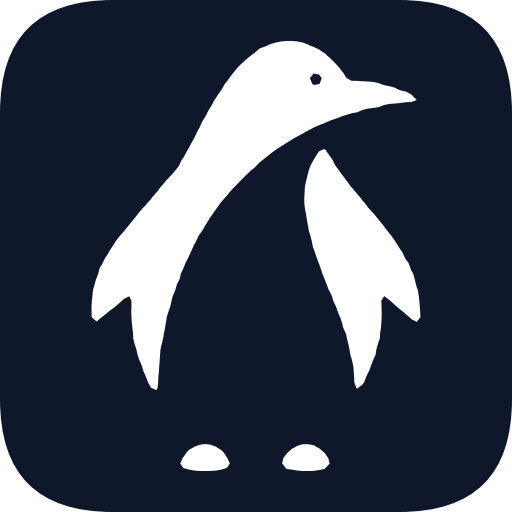
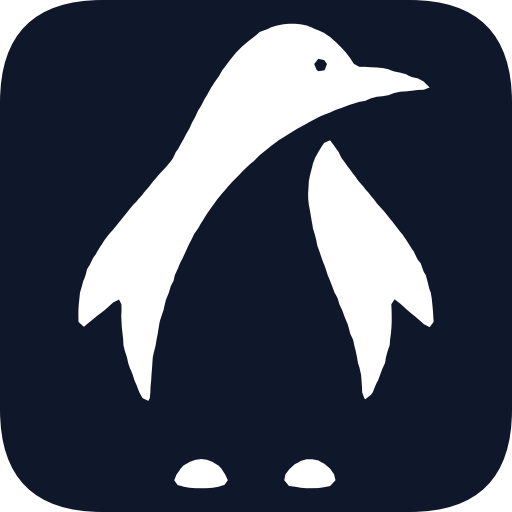
fix(video): 파비콘 캐시 무효화 및 펭귄 로고 패딩 축소로 시인성 개선

diff --git a/reportist-video/index.html b/reportist-video/index.html
@@ -10,12 +10,12 @@
     <link rel="canonical" href="https://penguincut.com/" />
 
     <!-- Favicon & Icons -->
-    <link rel="icon" type="image/svg+xml" href="/favicon.svg" />
-    <link rel="icon" type="image/x-icon" href="/favicon.ico" />
-    <link rel="icon" type="image/png" sizes="48x48" href="/icon-48x48.png" />
-    <link rel="icon" type="image/png" sizes="96x96" href="/icon-96x96.png" />
-    <link rel="icon" type="image/png" sizes="192x192" href="/icon-192x192.png" />
-    <link rel="apple-touch-icon" href="/icon-192x192.png" />
+    <link rel="icon" type="image/svg+xml" href="/favicon.svg?v=2" />
+    <link rel="icon" type="image/x-icon" href="/favicon.ico?v=2" />
+    <link rel="icon" type="image/png" sizes="48x48" href="/icon-48x48.png?v=2" />
+    <link rel="icon" type="image/png" sizes="96x96" href="/icon-96x96.png?v=2" />
+    <link rel="icon" type="image/png" sizes="192x192" href="/icon-192x192.png?v=2" />
+    <link rel="apple-touch-icon" href="/icon-192x192.png?v=2" />
 
     <!-- Open Graph / Facebook -->
     <meta property="og:type" content="website" />

diff --git a/reportist-video/src/components/common/PenguinLogo.tsx b/reportist-video/src/components/common/PenguinLogo.tsx
@@ -67,10 +67,10 @@ export function PenguinLogoBadge({
   className = "",
 }: PenguinLogoBadgeProps) {
   const sizeConfig = {
-    xs: { box: "w-5 h-5 rounded-[4px]", icon: 14 },
-    sm: { box: "w-6 h-6 rounded-md", icon: 16 },
-    md: { box: "w-8 h-8 rounded-lg", icon: 22 },
-    lg: { box: "w-9 h-9 rounded-lg", icon: 26 },
+    xs: { box: "w-5 h-5 rounded-[4px]", icon: 16 },
+    sm: { box: "w-6 h-6 rounded-md", icon: 20 },
+    md: { box: "w-8 h-8 rounded-lg", icon: 26 },
+    lg: { box: "w-9 h-9 rounded-lg", icon: 30 },
   }[size];
 
   const variantStyles = {

diff --git a/reportist-video/src/components/header/Header.tsx b/reportist-video/src/components/header/Header.tsx
@@ -37,7 +37,7 @@ export const Header: React.FC<HeaderProps> = ({
         title={dict.common.brandName || 'PenguinCut'}
       >
         <div className="brand-logo-icon">
-          <PenguinLogo size={18} inverted />
+          <PenguinLogo size={26} inverted />
         </div>
         <div className="brand-title">
           <span>PenguinCut</span>
